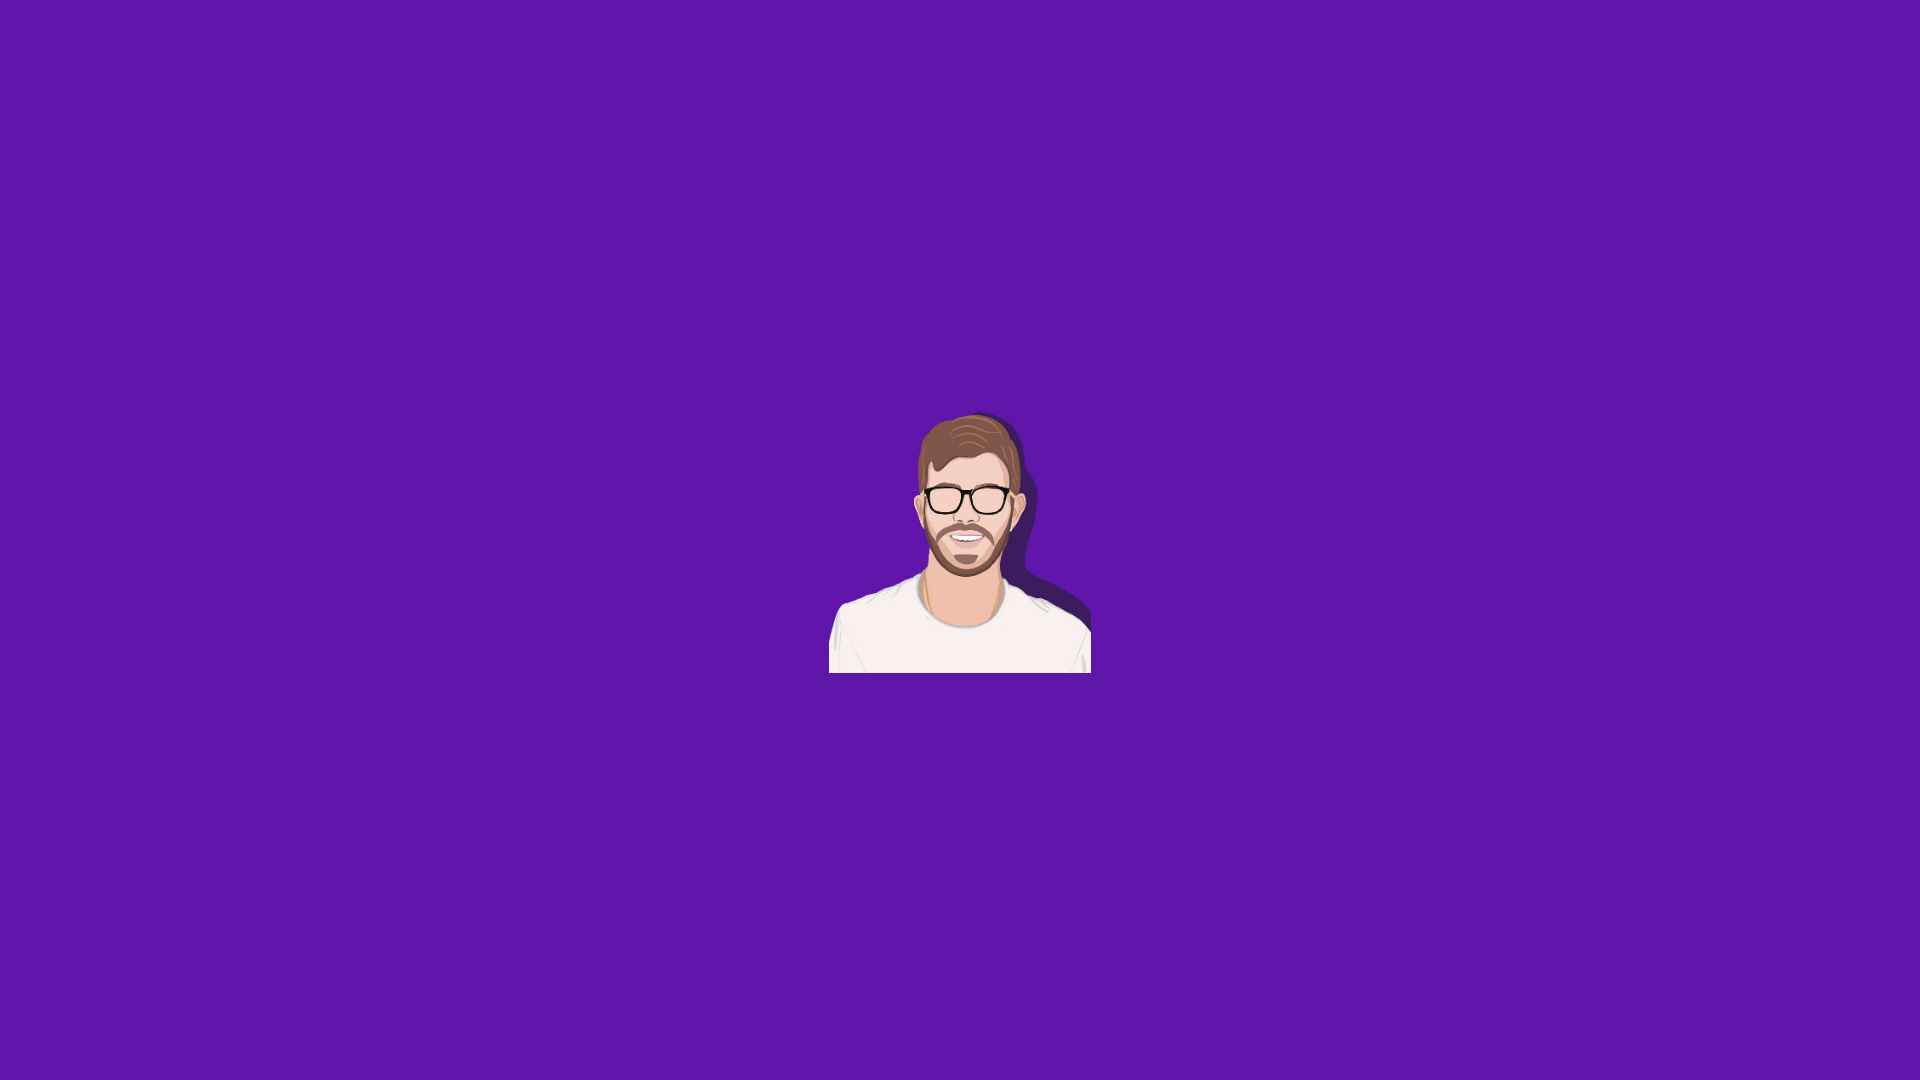
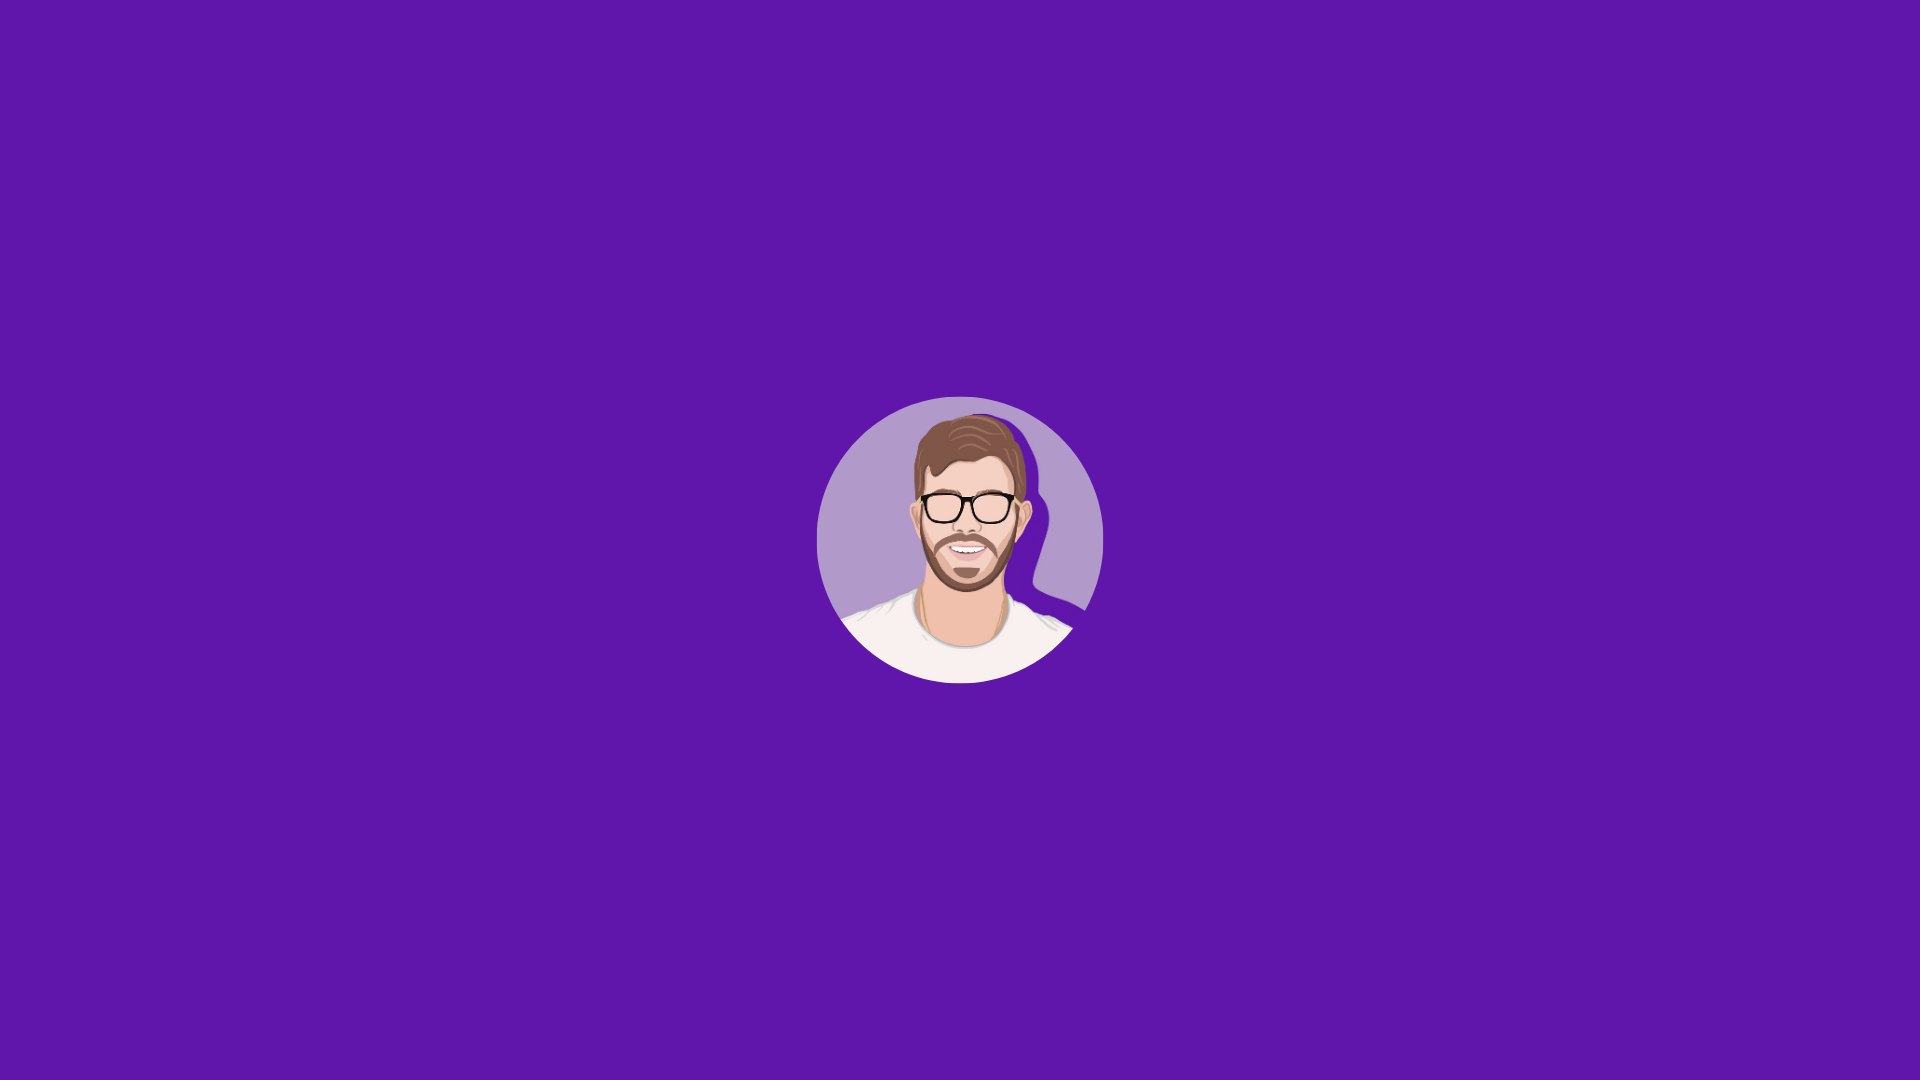
Add partial article on who can be a software engineer

Changed region(s): [[0.4062, 0.3667, 0.5938, 0.6417]]

diff --git a/_site/posts/2020-05-09-who_can_be_a_software_engineer.md b/_site/posts/2020-05-09-who_can_be_a_software_engineer.md
@@ -1,0 +1,33 @@
+---
+layout: layouts/post.njk
+title: 'Who can be a Software Engineer?'
+summary: "The second of a series of posts about becoming a software engineer."
+hero: /images/posts/who_can_be_a_software_engineer.jpg
+thumb: /images/posts/who_can_be_a_software_engineer.jpg
+tags:
+  - who can be a software engineer
+  - qualities
+  - people
+---
+
+## The Aim
+
+Welcome to my second of a series of posts that where I try to bring you up to speed on the knowledge, skills and attributes required to be a modern software engineer. If you haven't yet, be sure to read the first post in the series where I talk about [what a software engineer actually does](/posts/2020-05-02-what_does_a_software_engineer_do/). In this post I'm going to be kicking off the journey to becoming a software engineer by looking at what qualities make a person suitable for the job.
+
+## Who Qualifies?
+
+As I mentioned (almost incessantly in the first post in this series) software engineers produce code. There are certain personal qualities that are extremely beneficial to have when fulfilling the role of a software engineer but they may not be what you think. There's a good chance you expected me to drone on about how software engineers should think logically or be hard-working. Don't get me wrong, those two qualities are certainly important but I genuinely believe that logical thinking can be taught and hard work is a habit anyone can form. Instead, I believe there are three attributes inherent to almost all good software engineers:
+
+- curiosity
+- adaptability
+- selflessness
+
+The first attribute, curiosity, links into just about all branches of engineering. The desire to know how things work from the basics up is an invaluable attribute to have. By breaking things (literally or metaphorically) into their base components, you gain an in-depth understanding of the parts themselves, as well as how they work together to create the whole. This is particularly useful for software engineers where there is an increasing trend towards creating small reusable pieces of code that can be combined to create a system (we'll discuss this more when we get to some technical content). Curiosity also drives an eager-to-learn attitude which leads nicely into the second quality, adaptability.
+
+<adaptability since software is probably the fastest changning industry>.
+
+<selfless team effort, focused on delivering>. 
+
+I'm getting a bit ahead of myself here so don't panic if the last sentence was a little confusing. The point is that software engineers produce code. There are quite literally thousands of tools and techniques that are used to accomplish this task and we'll get to a lot of the more popular ones in later posts. I hope I didn't ramble on for too long and that you at least have a fairly good idea of what a software engineer does. Look out for the next post in this series where I discuss the beginning of the journey to becoming a software engineer.
+
+_Jason Parry_

diff --git a/_site/posts/2020-05-02-what_does_a_software_engineer_do.md b/_site/posts/2020-05-02-what_does_a_software_engineer_do.md
@@ -26,4 +26,6 @@ Contrary to popular opinion we can't fix your printer - well, we probably can bu
 
 I'm getting a bit ahead of myself here so don't panic if the last sentence was a little confusing. The point is that software engineers produce code. There are quite literally thousands of tools and techniques that are used to accomplish this task and we'll get to a lot of the more popular ones in later posts. I hope I didn't ramble on for too long and that you at least have a fairly good idea of what a software engineer does. Look out for the next post in this series where I discuss the beginning of the journey to becoming a software engineer.
 
+UPDATE: The next post in the series is now live where I talk about [the qualities required to be a software engineer](/posts/2020-05-09-who_can_be_a_software_engineer_do/).
+
 _Jason Parry_

diff --git a/_site/reviews/2017-03-25-horizon-zero-dawn-review.md b/_site/reviews/2017-03-25-horizon-zero-dawn-review.md
@@ -30,3 +30,5 @@ However, the graphics seem to be the real draw card in this game. The PS4 Pro ve
 As with any new game these days, HZD carries a hefty price tag. However, this purchase looks to be well worth it with reviews coming in at 8 to 9 out of 10. 
  
 Horizon Zero Dawn is a beautiful open-world RPG which places the player on a quest to discover a plethora of dangers in a post-apocalyptic world. It has some serious, fun gameplay and stunning visuals which, along with the many positive reviews, leads me to encourage any PS4 owners to give this game a try. Enjoy the view!
+
+_Jason Parry_
